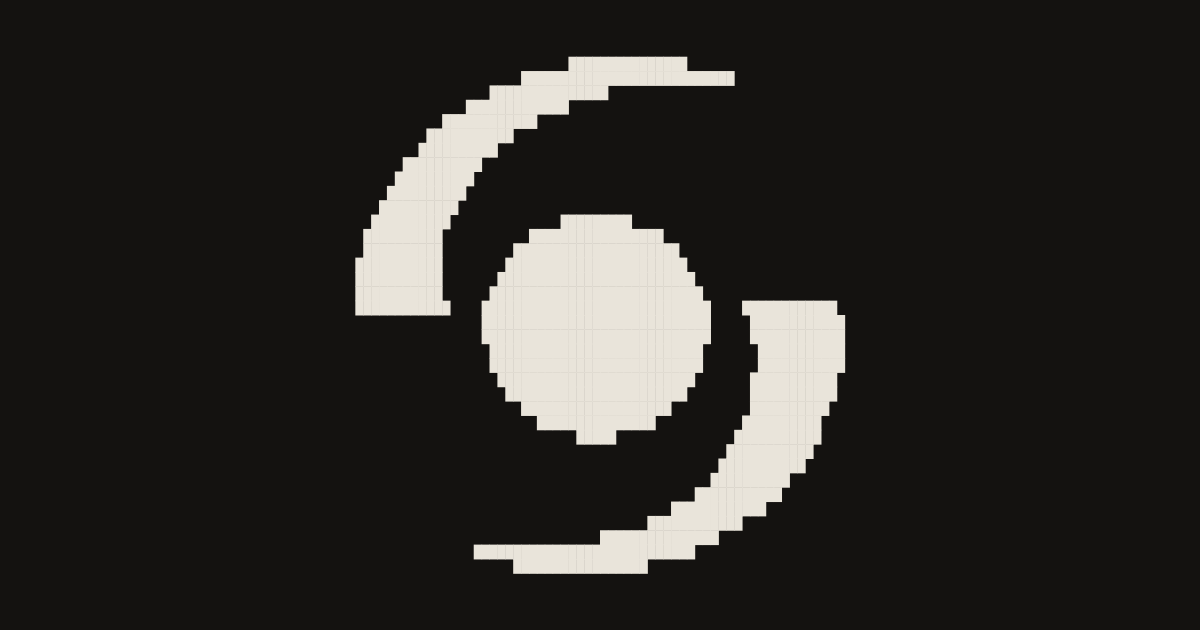
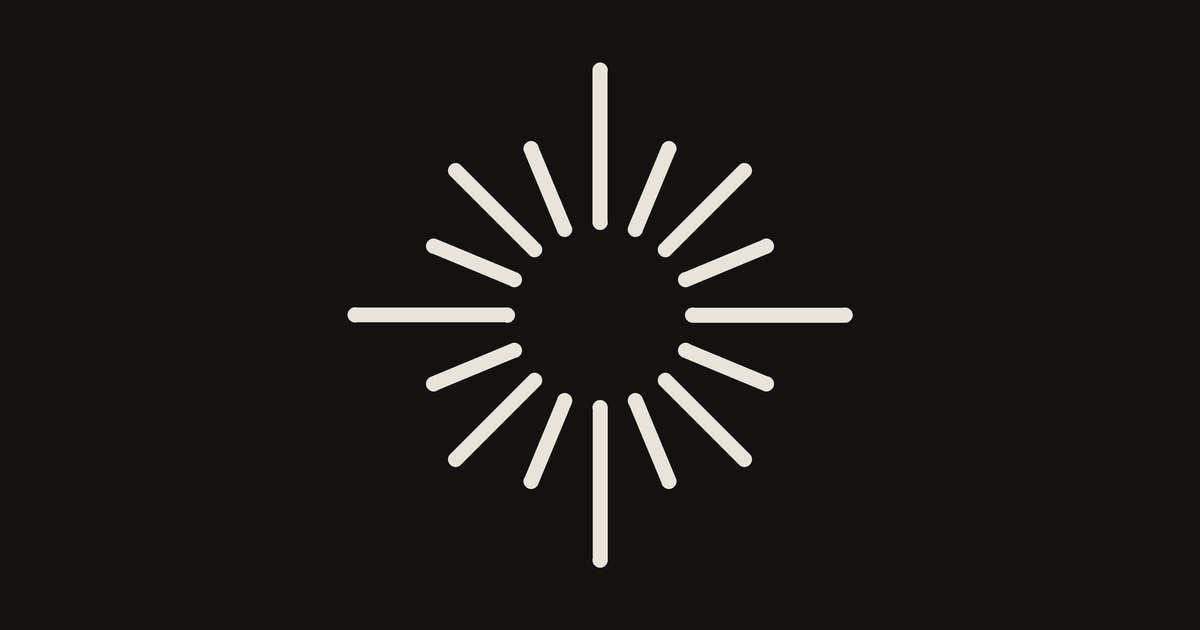
Refresh brand mark and preview art
Updated the hero ASCII artwork to a simpler, more compact brand mark and refreshed the social preview image to match the new visual direction.

Changed region(s): [[0.2775, 0.0905, 0.7092, 0.9349]]

diff --git a/index.html b/index.html
@@ -311,42 +311,37 @@ footer a:hover { color: var(--copper); }
 </nav>
 
 <header class="hero">
-<pre class="mark" aria-hidden="true">                           ███████████████
-                     ███████████████████████████
-                 ███████████████
-              █████████████
-           ████████████
-         ███████████
-        ██████████
-      ██████████
-     ██████████
-    ██████████
-   ██████████
-  ██████████              █████████
- ██████████           █████████████████
- ██████████         █████████████████████
-███████████        ███████████████████████
-███████████       █████████████████████████
-███████████      ███████████████████████████
-████████████    █████████████████████████████    ████████████
-                █████████████████████████████     ████████████
-                █████████████████████████████     ████████████
-                 ███████████████████████████       ███████████
-                 ███████████████████████████       ███████████
-                  █████████████████████████       ███████████
-                   ███████████████████████        ███████████
-                     ███████████████████          ██████████
-                       ███████████████           ██████████
-                            █████               ███████████
-                                               ███████████
-                                              ███████████
-                                             ██████████
-                                           ███████████
-                                        ████████████
-                                     ████████████
-                               ███████████████
-               ████████████████████████████
-                    █████████████████</pre>
+<pre class="mark" aria-hidden="true">                           █
+                           █
+                           █
+                           █
+                           █
+                   ██      █      ██
+           ██       ██     █     ██       ██
+            ██       █     █     █       ██
+              ██      █    █    █      ██
+               ███    ██   █   ██    ███
+                 ███   █       █   ███
+         ████      ██             ██      ████
+            █████                     █████
+                 ██                 ██
+
+██████████████████                   ██████████████████
+
+                 ██                 ██
+            █████                     █████
+         ████      ██             ██      ████
+                 ███   █       █   ███
+               ███    ██   █   ██    ███
+              ██      █    █    █      ██
+            ██       █     █     █       ██
+           ██       ██     █     ██       ██
+                   ██      █      ██
+                           █
+                           █
+                           █
+                           █
+                           █</pre>
   <h1>A solar system<br>of <em>your own machines.</em></h1>
   <p class="sub">Solix is mission control for the computers you already run. A Mac becomes a planet, agents become crew, and a First Mate routes every job to the machine — and the model — that makes sense right now.</p>
   <div class="cta">
